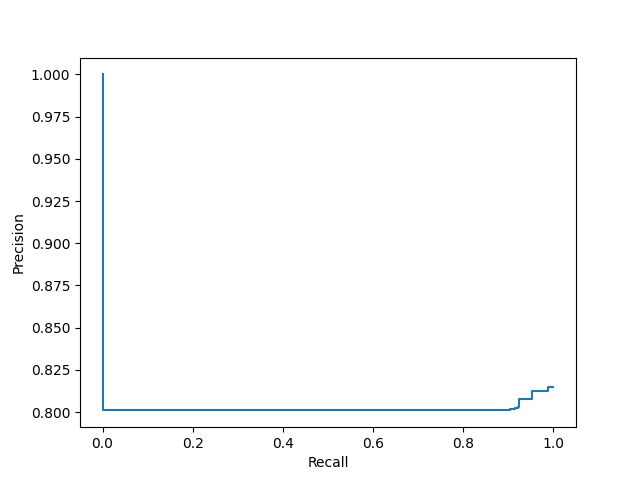
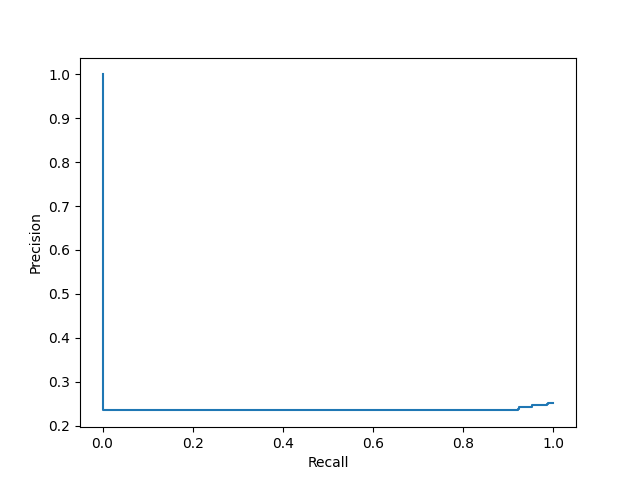
AUROC and Eval Sample Weighting

diff --git a/polycraft_nov_det/baselines/eval_polycraft.py b/polycraft_nov_det/baselines/eval_polycraft.py
@@ -37,13 +37,19 @@ def eval_from_save(output_folder):
     folder_path = Path(output_folder)
     novel_true = torch.load(folder_path / "novel_true.pt")
     novel_score = torch.load(folder_path / "novel_score.pt")
-    # TODO need to upsample normal data for similar to typical episode
+    # upsample normal data so it accounts for 3/4 of the weight, roughly the split of an episode
+    norm_count = torch.sum(novel_true == 0)
+    novel_count = torch.sum(novel_true == 1)
+    weight = torch.ones_like(novel_score)
+    weight[novel_true == 0] = 3 * novel_count / norm_count
     # ROC with 1 as novel target
-    fpr, tpr, roc_threshs = metrics.roc_curve(novel_true, novel_score)
-    metrics.RocCurveDisplay(fpr=fpr, tpr=tpr).plot()
+    fpr, tpr, roc_threshs = metrics.roc_curve(novel_true, novel_score, sample_weight=weight)
+    auroc = metrics.roc_auc_score(novel_true, novel_score, sample_weight=weight)
+    metrics.RocCurveDisplay(fpr=fpr, tpr=tpr, roc_auc=auroc).plot()
     plt.savefig(folder_path / "roc.png")
     # PRC with 1 as novel target
-    precision, recall, prc_threshs = metrics.precision_recall_curve(novel_true, novel_score)
+    precision, recall, prc_threshs = metrics.precision_recall_curve(
+        novel_true, novel_score, sample_weight=weight)
     metrics.PrecisionRecallDisplay(precision=precision, recall=recall).plot()
     plt.savefig(folder_path / "prc.png")
     # TODO precision and FPR at TPR 95%
